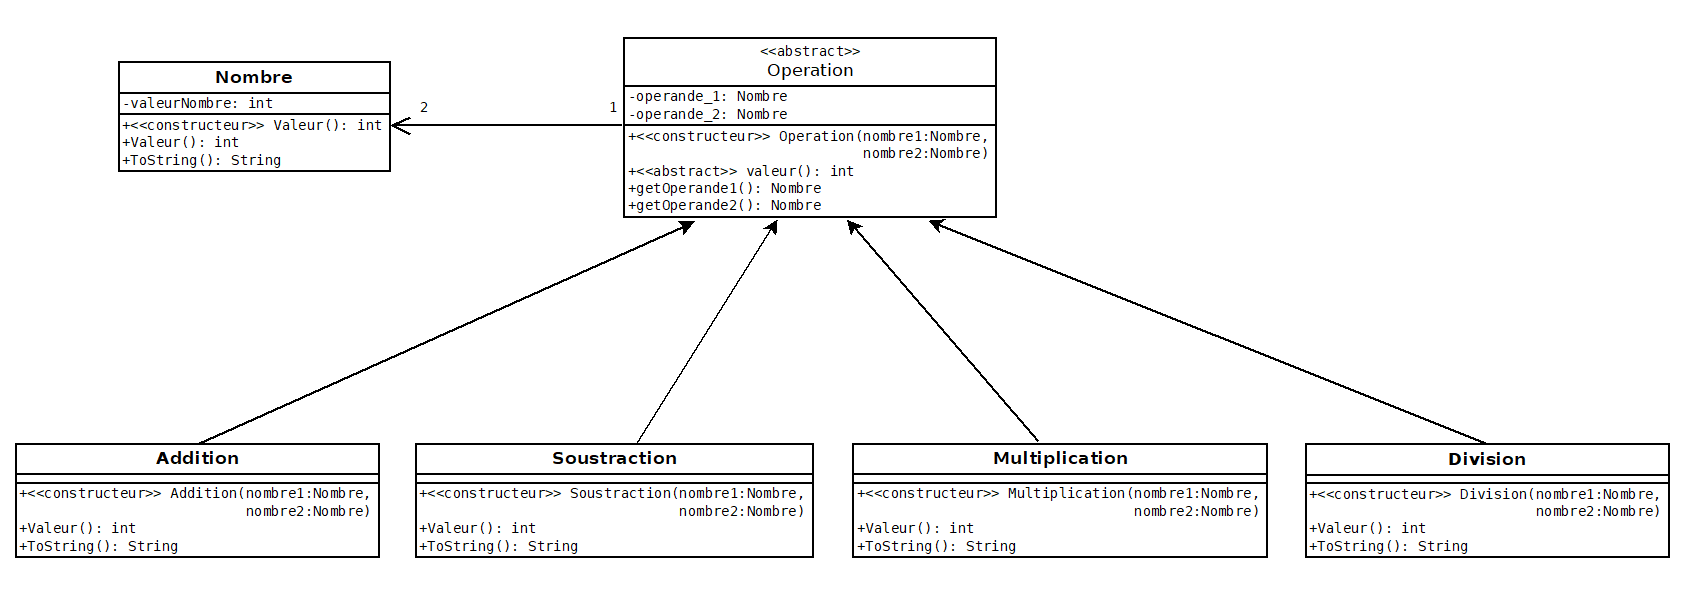
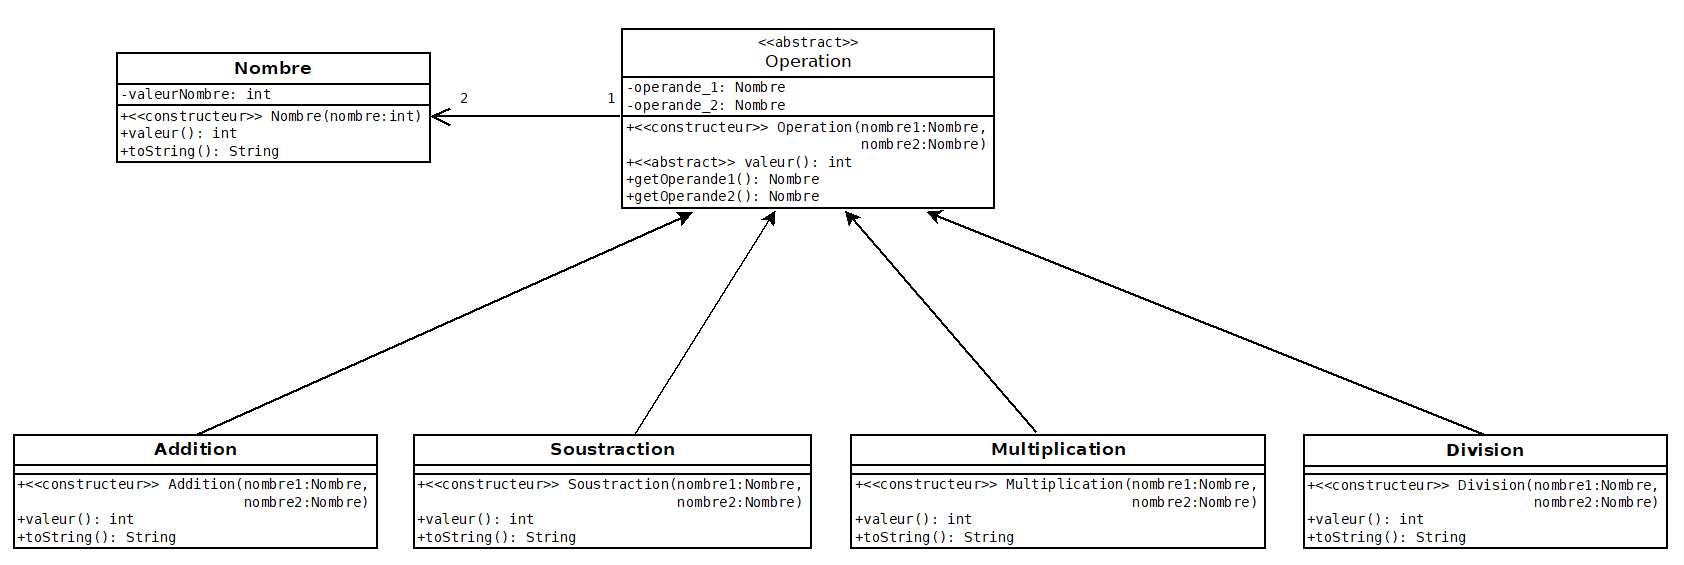
version 1 UML

diff --git a/Partie I/Nombre.java b/Partie I/Nombre.java
@@ -1,7 +1,7 @@
 public class Nombre {
     /**
      * Nom du projet : Calculatrice SAE R201
-     * Auteurs : Zasir MOINOOTHEEN et Inès Marcisz
+     * Auteurs : Zasir MOINOOTHEEN et Inès MARICSZ
      * Date de dernière modification : 2024-05-18
      */
 
@@ -11,7 +11,7 @@ public class Nombre {
         this.valeurNombre=nombre;
     }
 
-    public int Valeur(){
+    public int valeur(){
         return this.valeurNombre;
     }
 

diff --git a/Partie I/Operation.java b/Partie I/Operation.java
@@ -1,7 +1,7 @@
 public abstract class Operation {
     /**
      * Nom du projet : Calculatrice SAE R201
-     * Auteurs : Zasir MOINOOTHEEN et Inès Marcisz
+     * Auteurs : Zasir MOINOOTHEEN et Inès MARICSZ
      * Date de dernière modification : 2024-05-18
      */
 
